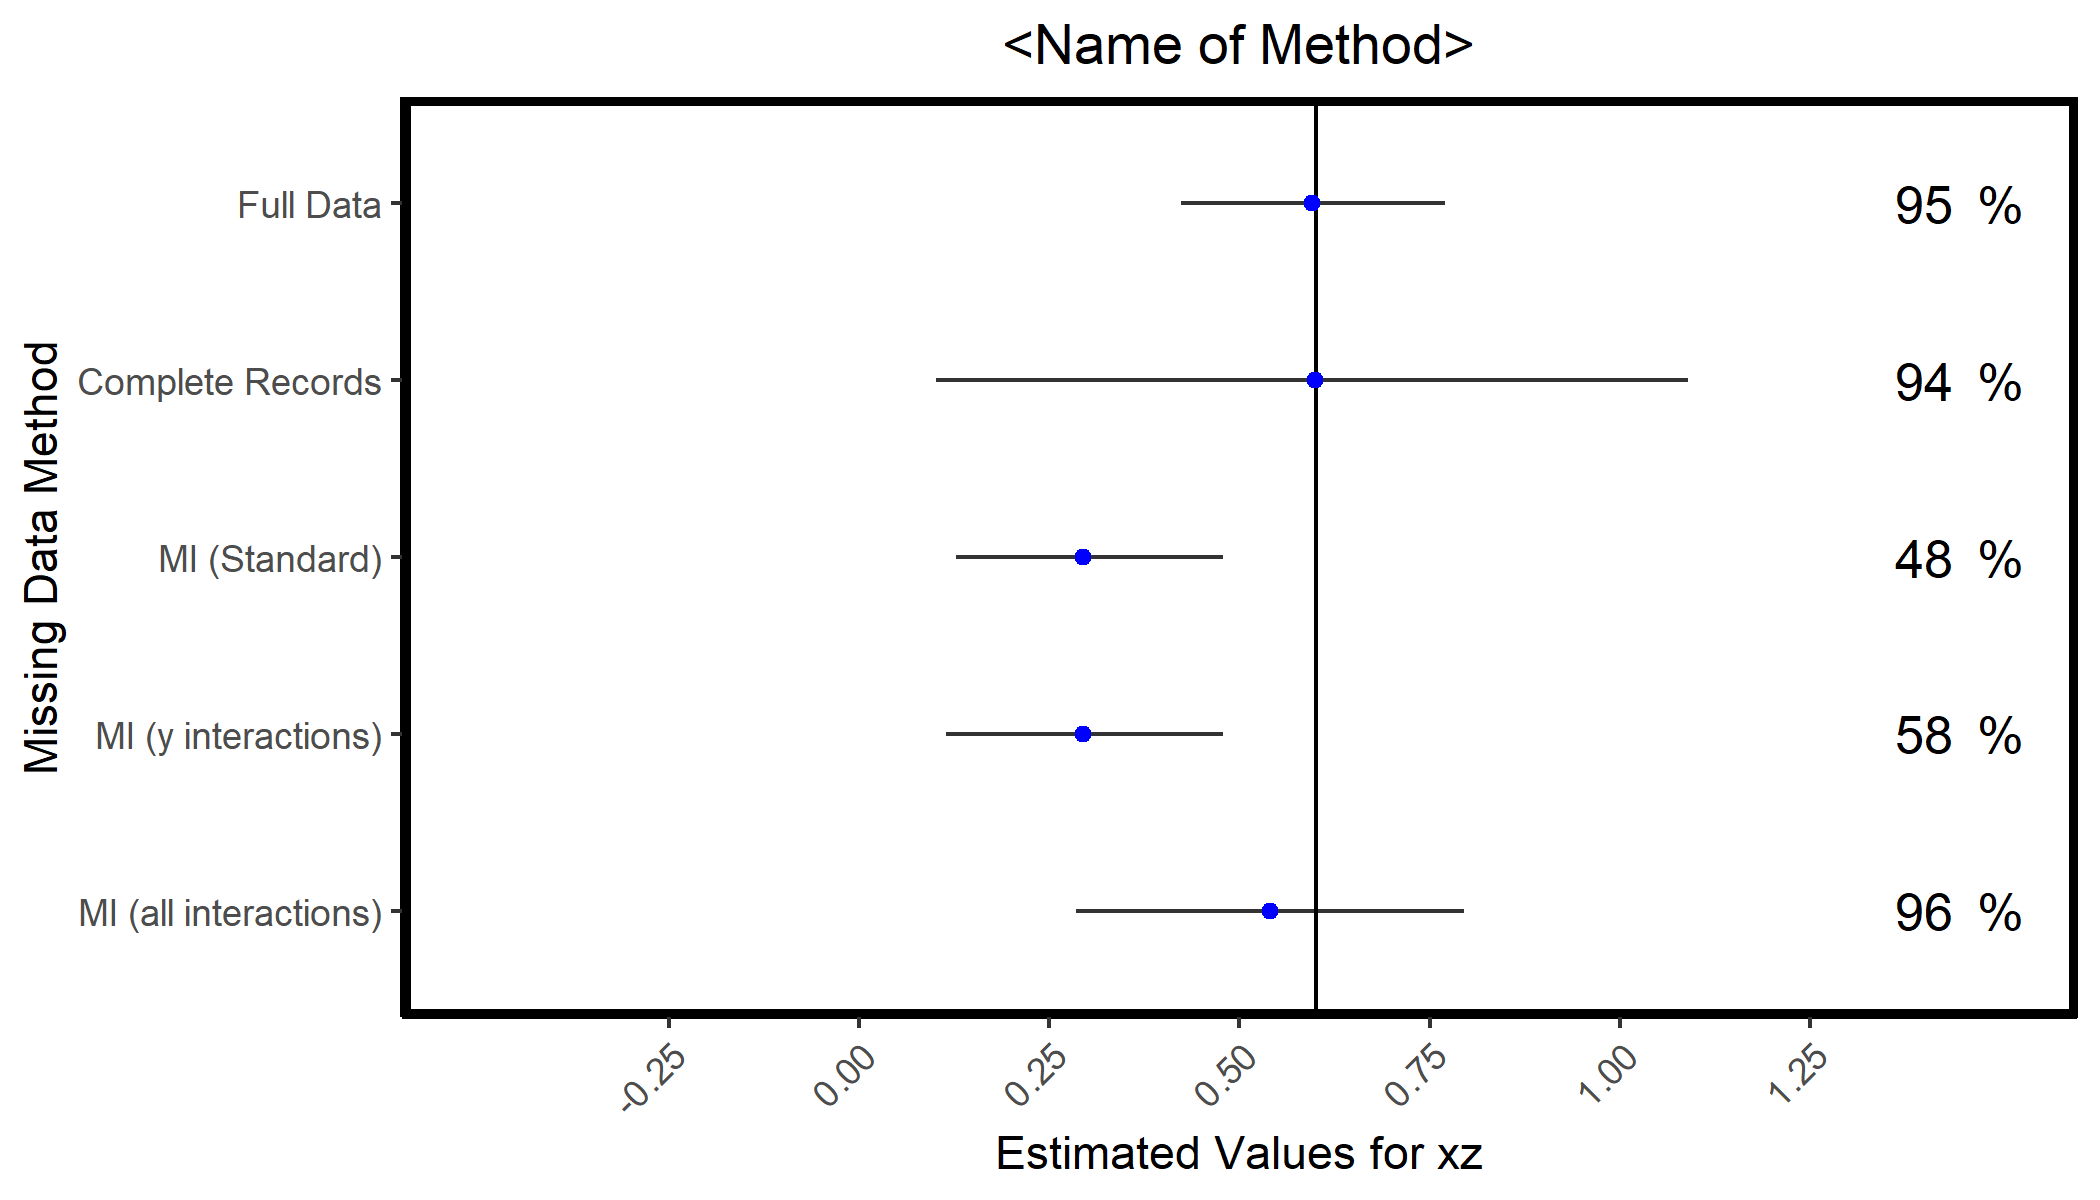
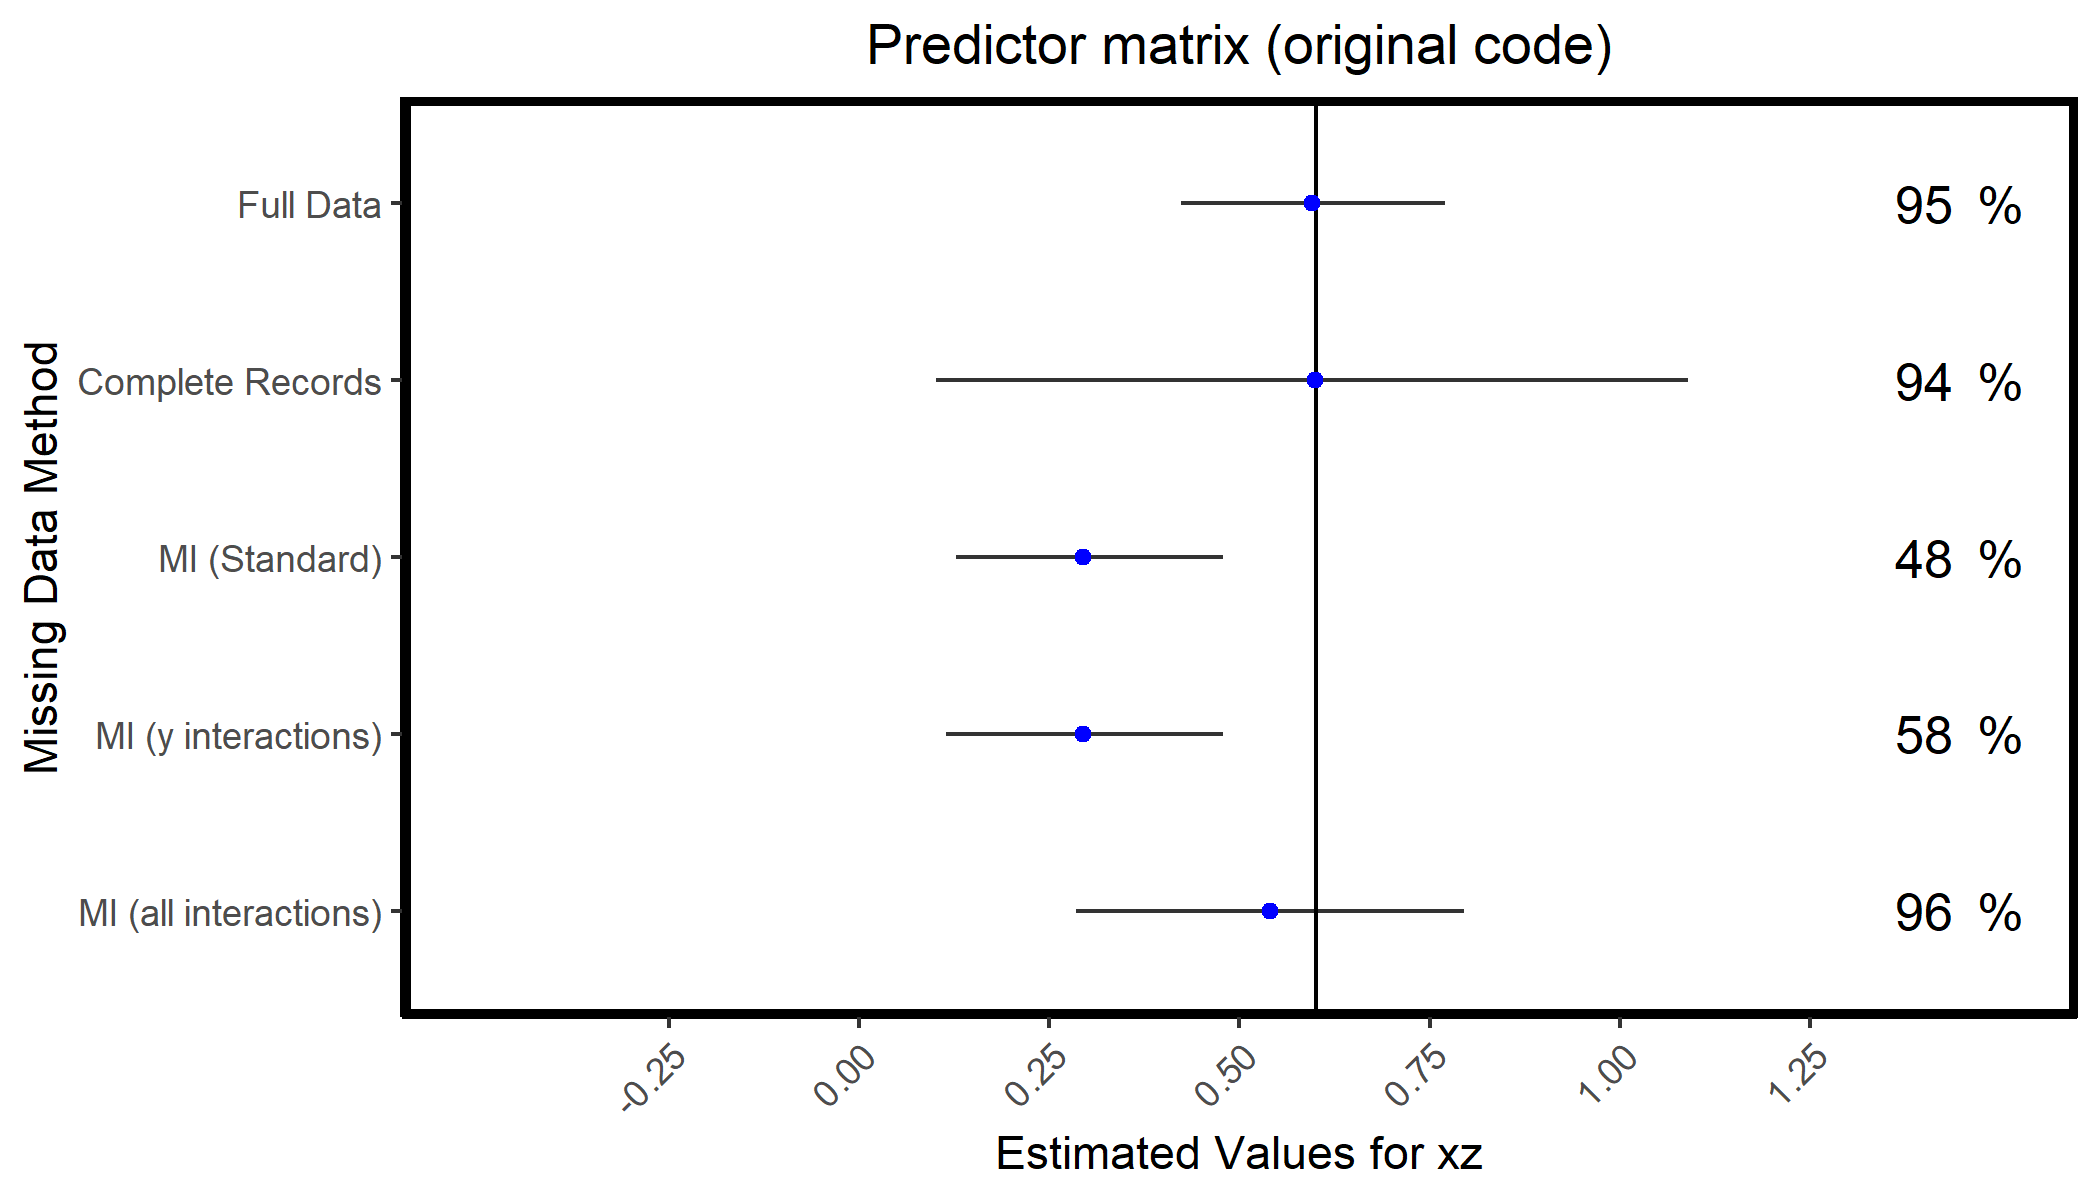
Create README and update plots with coverage percentage

Changed region(s): [[0.4024, 0.0, 0.7738, 0.0617]]

diff --git a/R/mice.formula/README.md b/R/mice.formula/README.md
@@ -1,0 +1,32 @@
+# Comparison of `mice`'s formula and predictorMatrix interface for interactions
+
+A recent [Master's project](https://uknowledge.uky.edu/cgi/viewcontent.cgi?article=1234&context=cph_etds) reported different results when specifying an imputation model with interaction using `mice`'s `predictorMatrix` and `formulas` arguments, claiming that using `predictorMatrix` results in more precise estimates. This is surprising because in theory both options were designed to result in equivalent models. The code in this folder revisits the code published as part of the Master's thesis and investigates the reasons for a difference in results.
+
+## Findings 
+
+Results were close to those reported in the report could be reproduced using the original code (unfortunately no seeds were set, so results couldn't be reproduced exactly). Differences in estimates between `predictMatrix` and `formulas` could be traced back to an incorrect definition of the `predictorMatrix`, which included an interaction between `x` and `y` (`zyint`) in the imputation of `y`.
+
+
+```r
+myPredMat
+#>        x y.miss z.miss xzint yzint xyint
+#> x      0      1      1     1     1     1
+#> y.miss 1      0      1     1     0     1
+#> z.miss 1      1      0     0     0     1
+#> xzint  1      1      1     0     1     1
+#> yzint  1      1      1     1     0     1
+#> xyint  1      1      1     1     1     0
+```
+
+After correcting the `predictMatrix`, both interfaces provided identical results.
+
+
+
+## File structure
+
+- formula.R: original code using the `formulas` interface (pp. 13-17)
+- predict_mat.R: original code using the `predictMatrix` interface (pp. 26-31)
+- predict_mat2.R: corrected code using the `predictMatrix` interface 
+- graph.R: original code to create plots (pp. 41-50)
+
+Folders store the outcome of the simulations.
